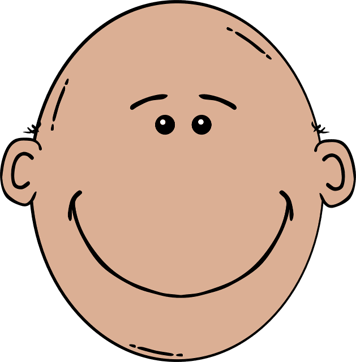
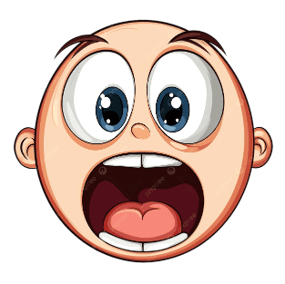
lesson 8 face fix add voc

diff --git a/src/lessons/lesson8/data.js b/src/lessons/lesson8/data.js
@@ -14,6 +14,7 @@ export const lesson8 = {
         { url: "brush", label: "a brush" },
         { url: "teeth", label: "a teeth" },
         { url: "road", label: "a road" },
+        { url: "first", label: "first" },
       ],
     },
     {
@@ -87,14 +88,14 @@ export const lesson8 = {
       id: 6,
       altText: "Way to school.",
       text: [
-        "Betty goes to school. Here is the playground. Betty likes playing here. But it is a school day.",
+        "Betty goes to school. Here is a playground. Betty likes playing here. But it is a school day.",
       ],
     },
     {
       id: 7,
       altText: "Way to school.",
       text: [
-        "Here is a shop. Betty sees apples, grapes, watermelons and bananas there. But she has a lunch box. There are two apples in her lunchbox.",
+        "Here is a shop. Betty sees apples, grapes, watermelons and bananas here. But she has a lunch box. There are two apples in her lunchbox.",
       ],
     },
     {
@@ -138,10 +139,12 @@ export const lesson8 = {
     ],
     verbs: [{ word: "wash", meaning: "мити" }, { word: "get dressed", meaning: "одягатись" }, { word: "go", meaning: "ідти" }, { word: "show", meaning: "показувати" }],
     others: [{ word: "at", meaning: "за" }],
-    phrases: [{ word: "It is the first day of school...", meaning: "" },
-        { word: "I will show you around...", meaning: "" },
-      { word: "This is the way...", meaning: "" },
-      { word: "Early in the morning...", meaning: "" },
+    phrases: [{ word: "It is the first day of school...", meaning: "Це перший день школи..." },
+        { word: "I will show you around...", meaning: "Я покажу вам (все) навколо..." },
+        { word: "Check it out...", meaning: "Погляньмо/Зацінимо це (все)..." },
+      { word: "This is the way...", meaning: "Ось так..." },
+      { word: "Early in the morning...", meaning: "Рано в ранці..." },
+      { word: "So much fun...", meaning: "Так (багато) весело..." },
       
     ],
   },
